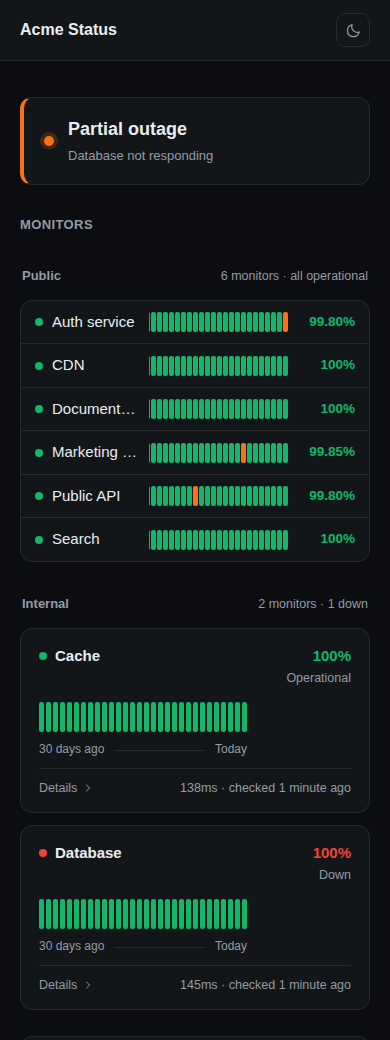
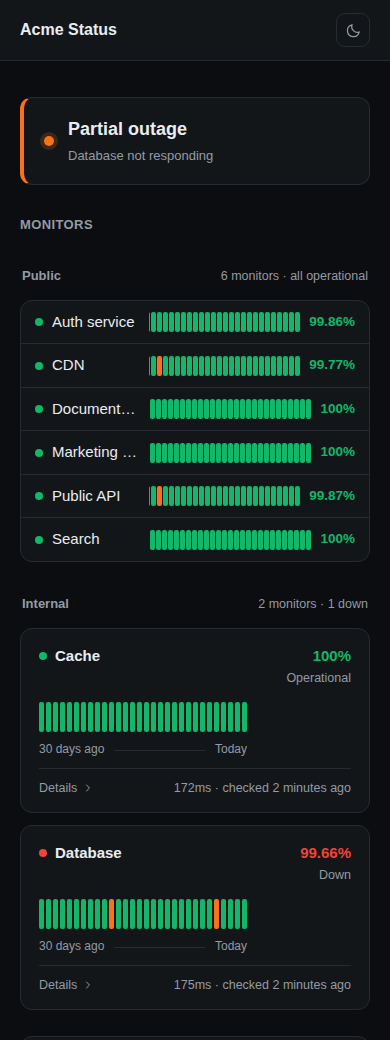
fix: even spacing around the status in a compact row
The figure sat in a 58px box with its text right aligned, so the visible gap
before it was 24px next to a six character value and 35px next to "100%",
against the row's own 12px elsewhere. The box hugs its text now and every gap
in the row measures 12px.

diff --git a/site/style.css b/site/style.css
@@ -357,14 +357,14 @@ main.shell {
   color: var(--muted);
 }
 
+/* No fixed width: a reserved box right-aligns its text, which leaves a wider
+   visible gap before a short figure than the row's own gap. */
 .compact-uptime {
   flex: none;
   font-variant-numeric: tabular-nums;
   font-weight: 600;
   font-size: 13.5px;
   color: var(--status, var(--text));
-  min-width: 58px;
-  text-align: right;
 }
 
 .card {
